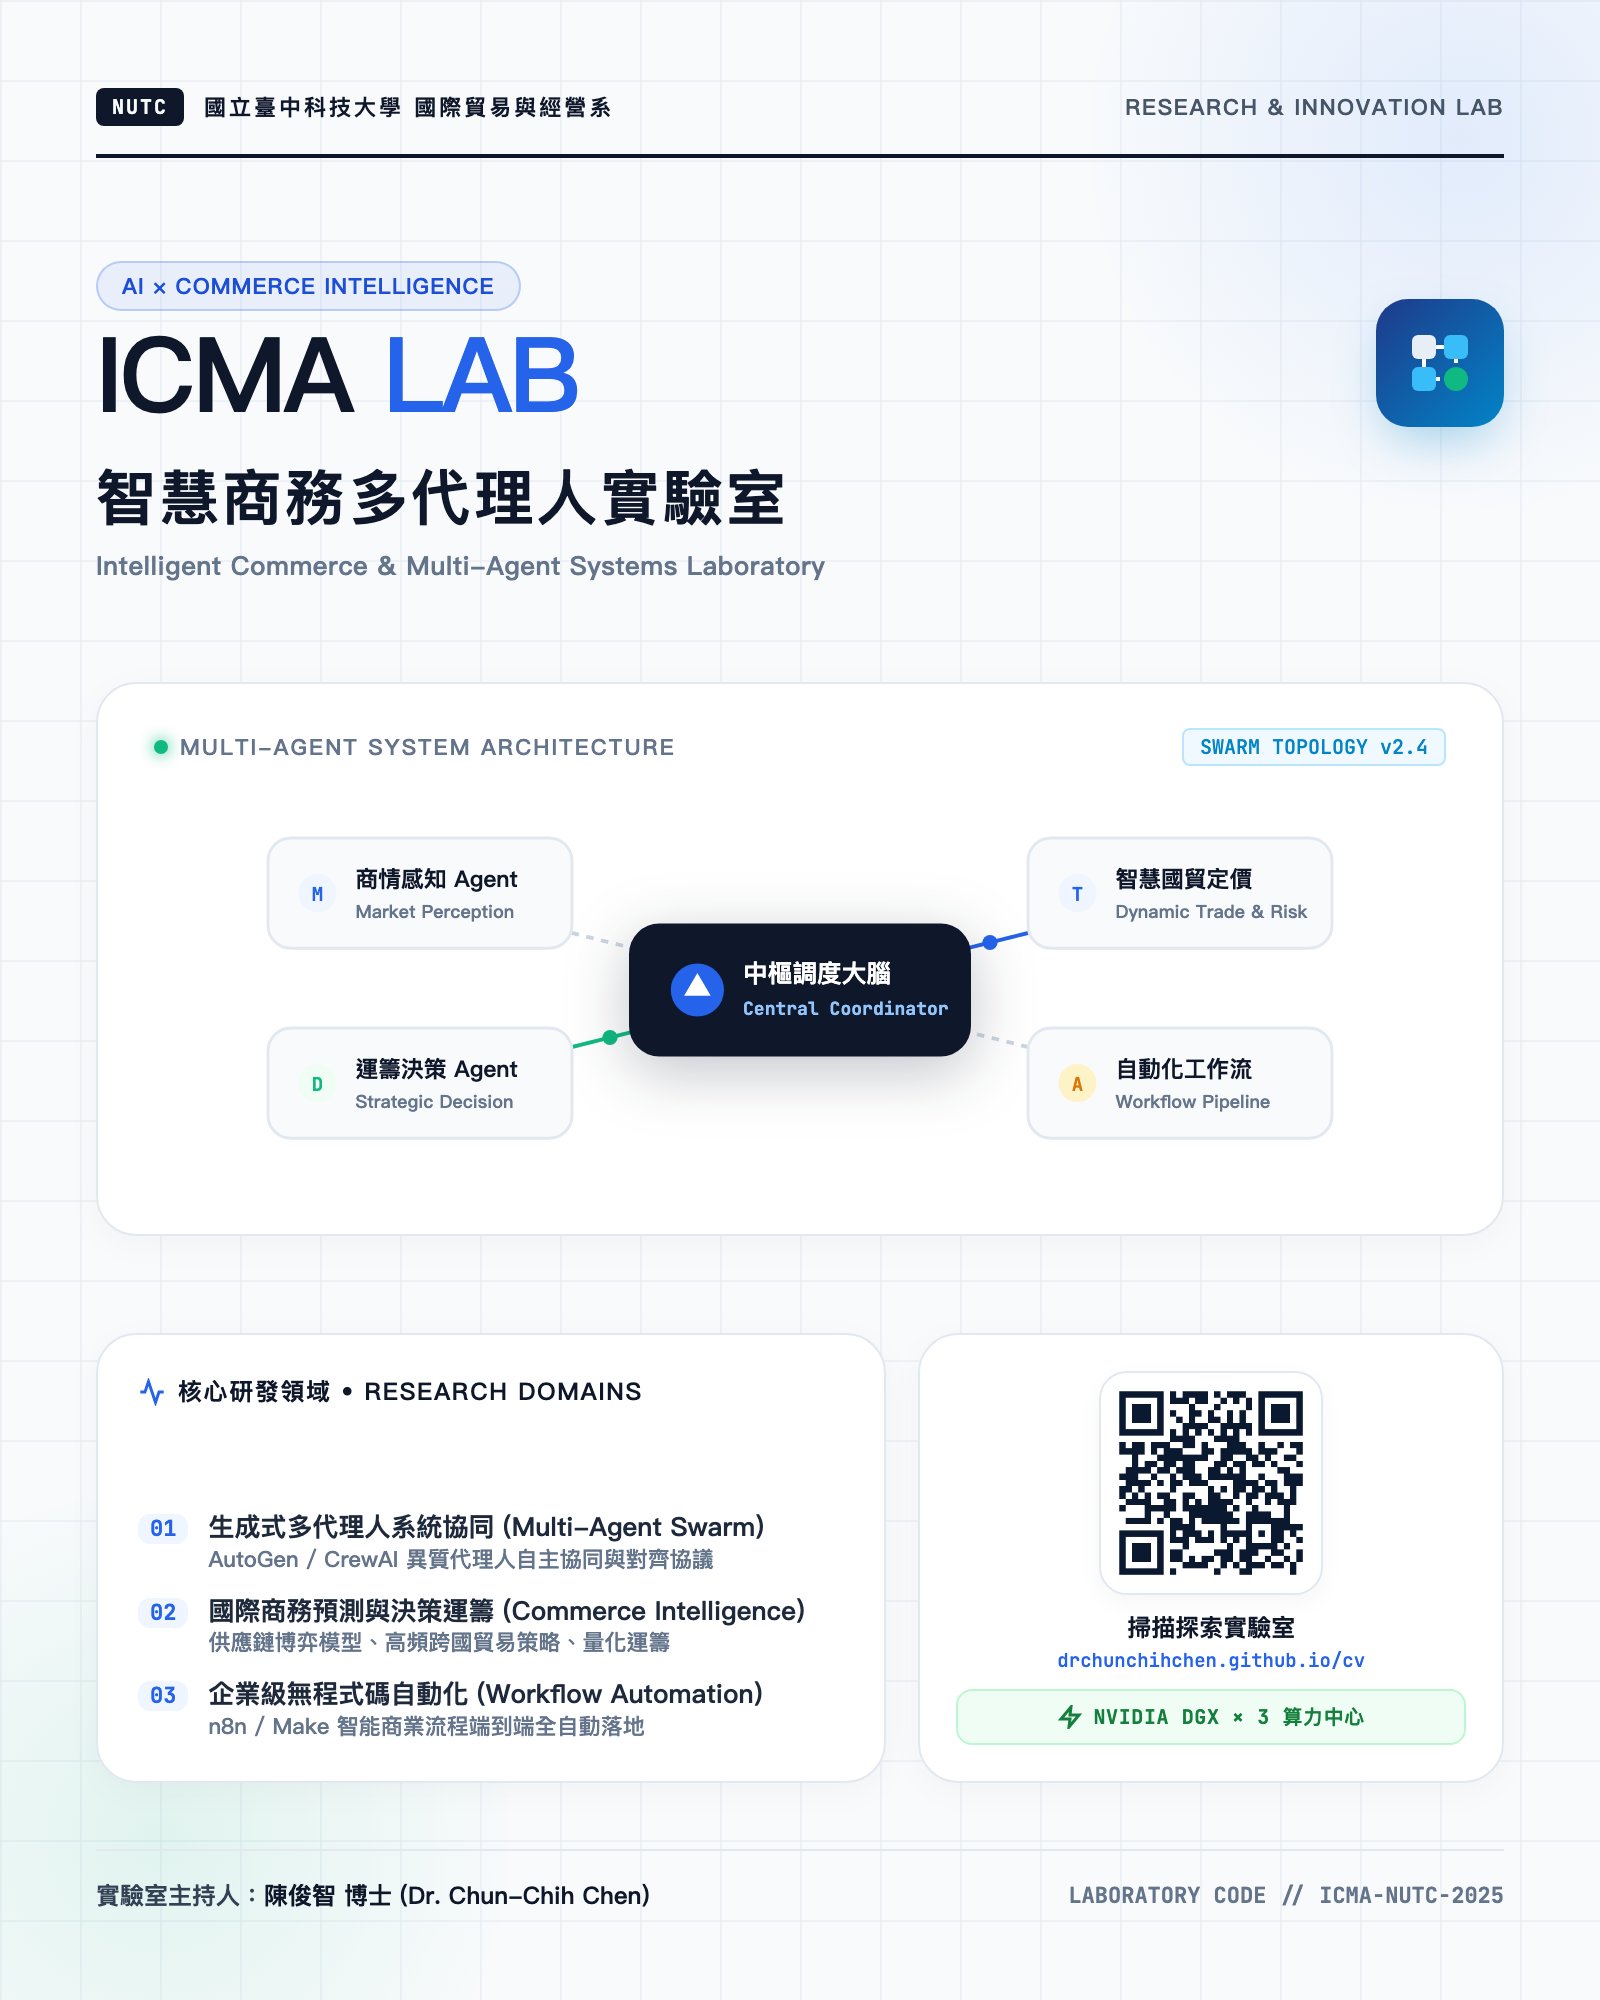
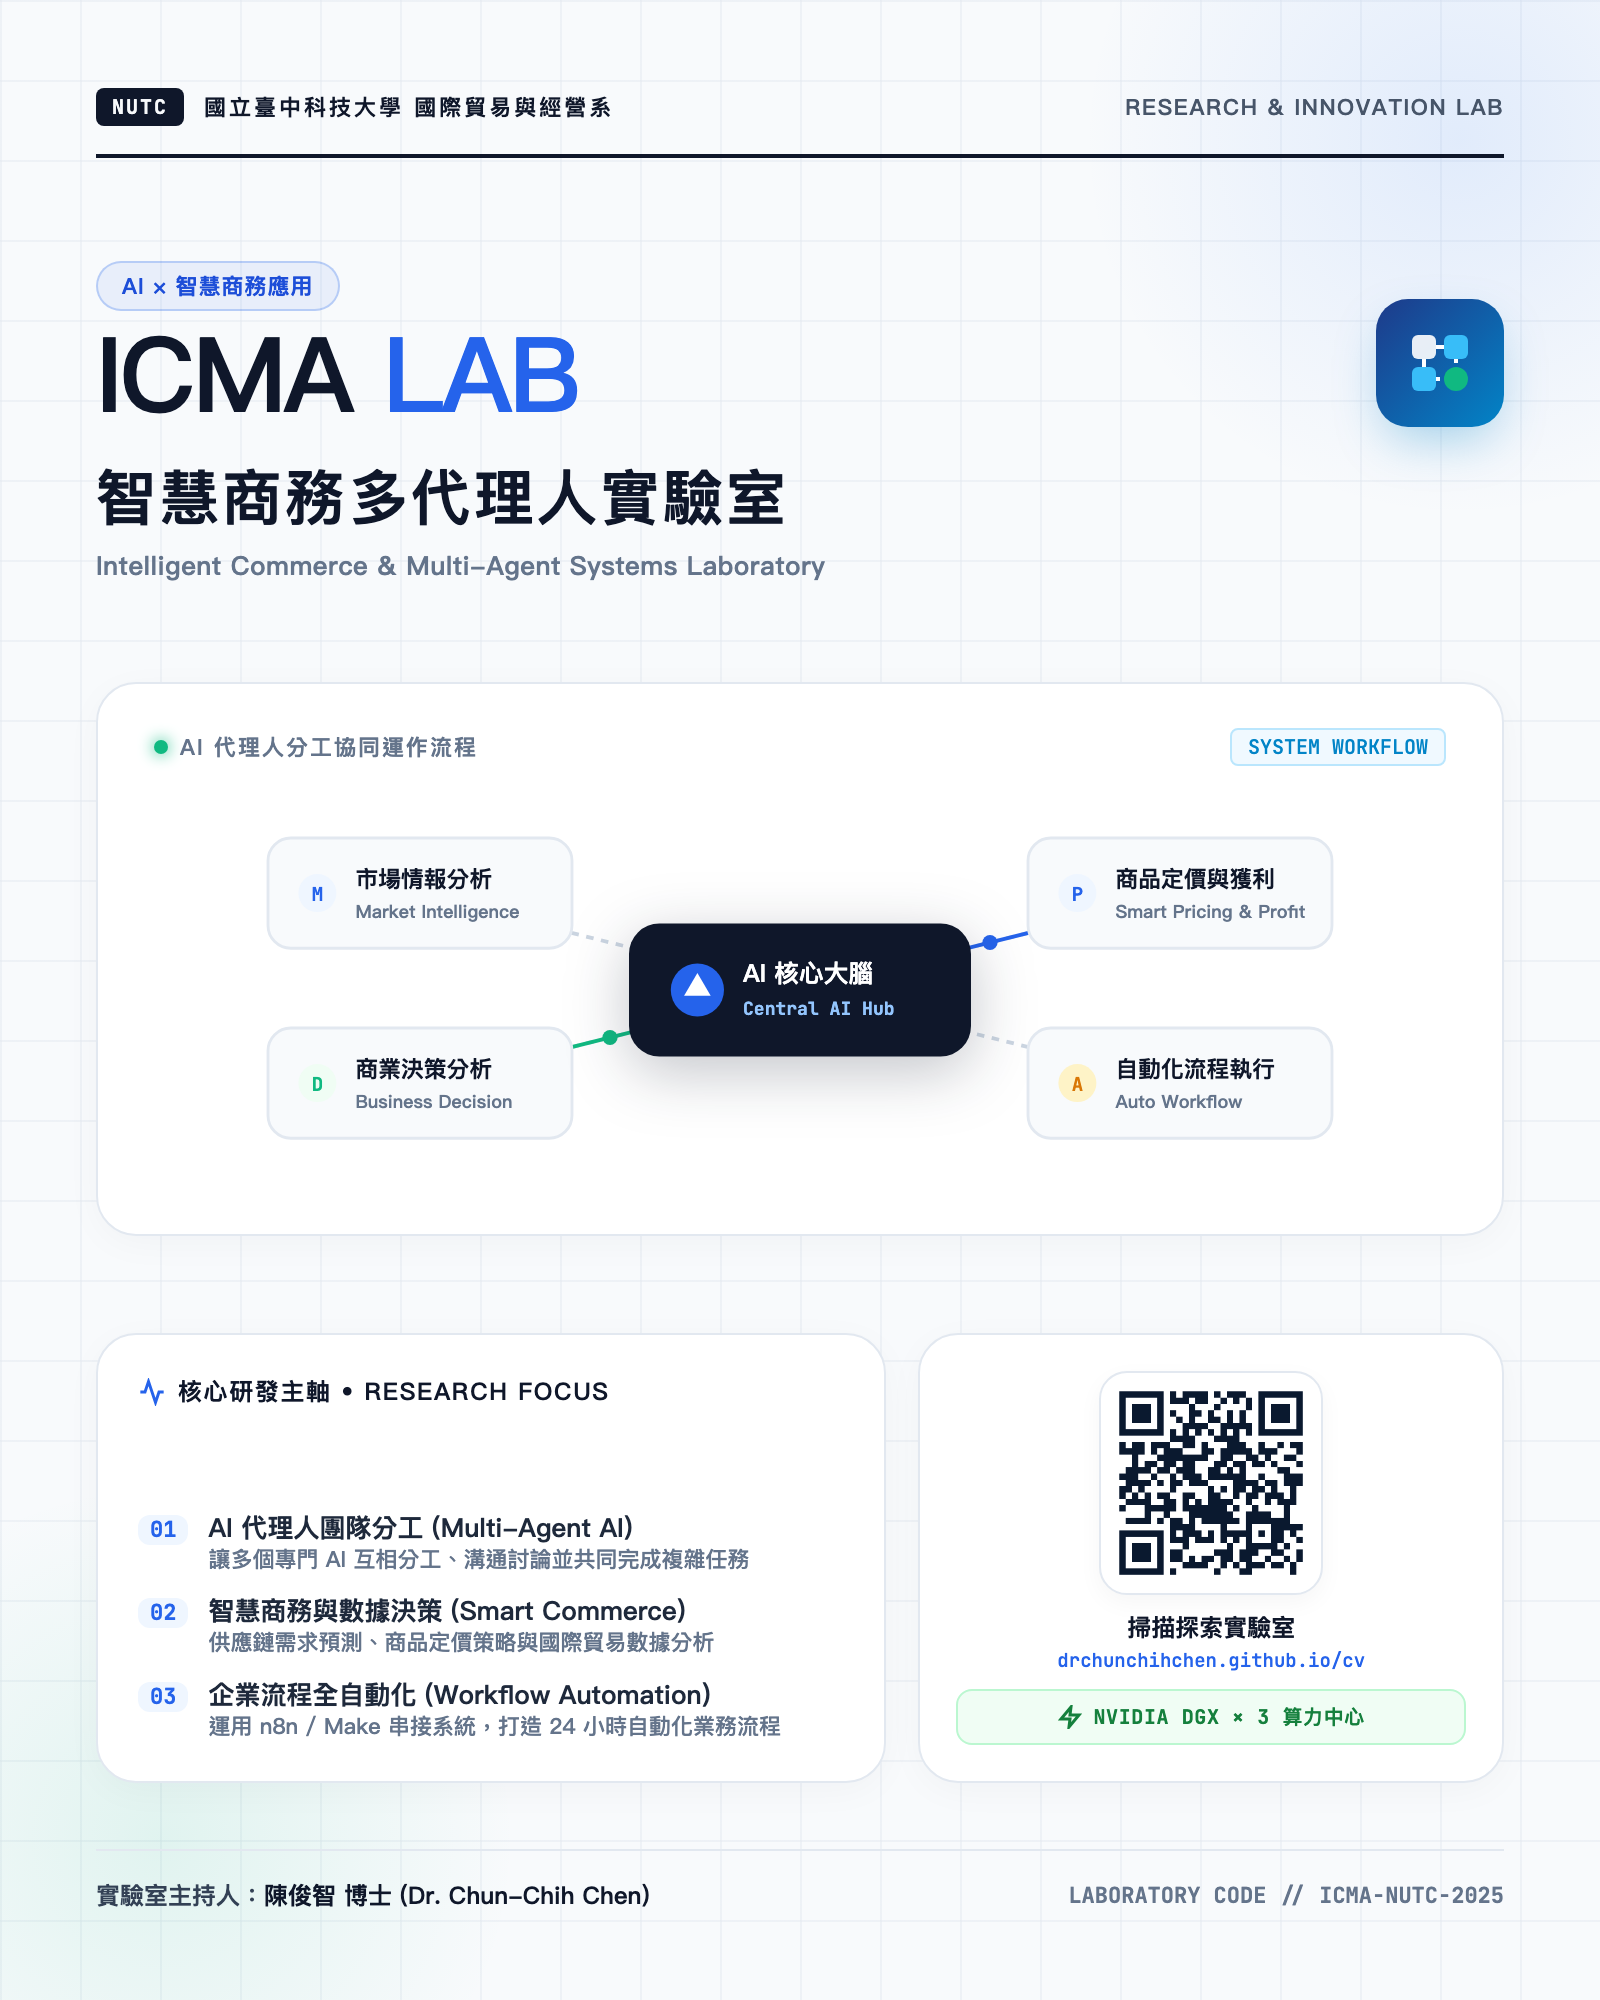
feat(lab): update ICMA poster and text with plain intuitive terminology

diff --git a/index.html b/index.html
@@ -687,7 +687,7 @@
                     </div>
 
                     <p class="lab-desc">
-                        別讓 API 餘額限制你的狂想。3 台 NVIDIA DGX 算力全開，結合多代理人自主協同（Multi-Agent Systems）與商業運籌決策模型，專門培養深入前線作戰的<strong>「國貿＋AI FDE（前進部署工程師）」</strong>！
+                        別讓 API 餘額限制你的狂想。3 台 NVIDIA DGX 算力全開，結合多代理人自主協同（Multi-Agent Systems）與智慧商務決策模型，專門培養深入前線作戰的<strong>「國貿＋AI FDE（前進部署工程師）」</strong>！
                     </p>
 
                     <!-- Compute Infrastructure Badge -->

diff --git a/README.md b/README.md
@@ -45,7 +45,7 @@
 </p>
 
 * **實驗室亮點**：🔥 **國貿系最多 Token 的實驗室**，別讓 API 餘額限制你的狂想！
-* **核心技術**：LLM Multi-Agent 自主協同協議 (AutoGen / CrewAI)、跨國商務賽局運籌、企業級自動化工作流 (n8n Engine)。
+* **核心技術**：AI 代理人團隊分工協同 (AutoGen / CrewAI)、智慧商務預測與數據決策、企業流程全自動化 (n8n / Make)。
 * **運算資源**：配備 **NVIDIA DGX × 3** 旗艦算力中心（Token 管飽支援）。
 * **招生與人才招募**：歡迎對 AI 代理人應用、商業自動化與創新創業有熱忱的同學加入！([申請加入](mailto:elvischen@nutc.edu.tw?subject=申請加入智慧商務多代理人實驗室))
 
